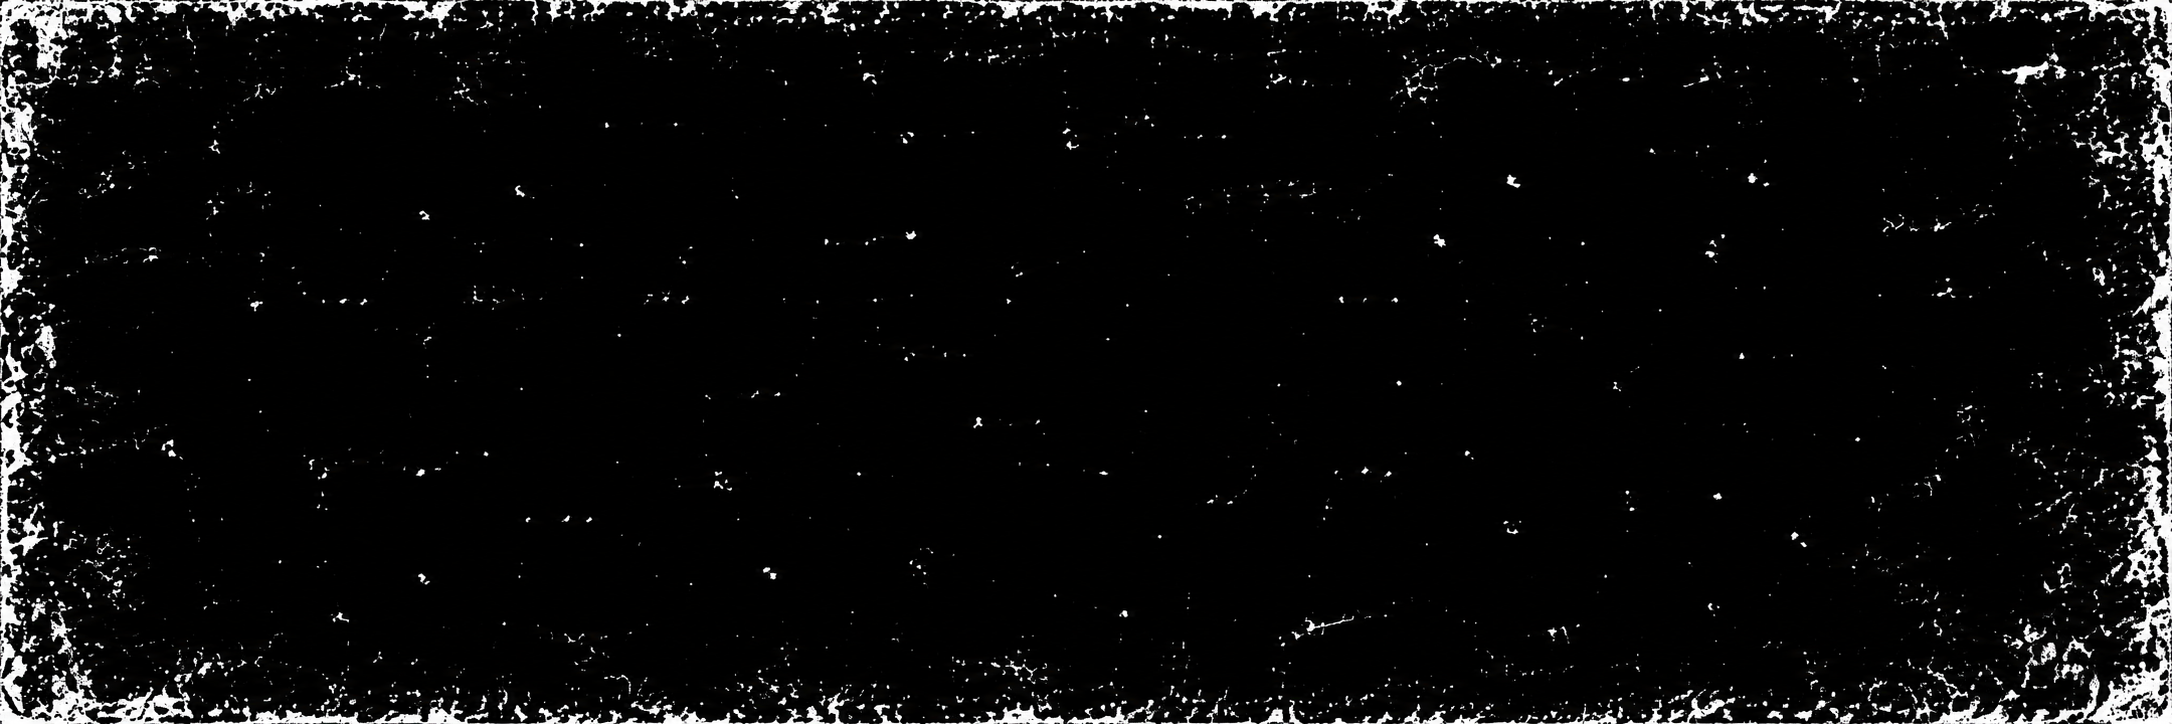
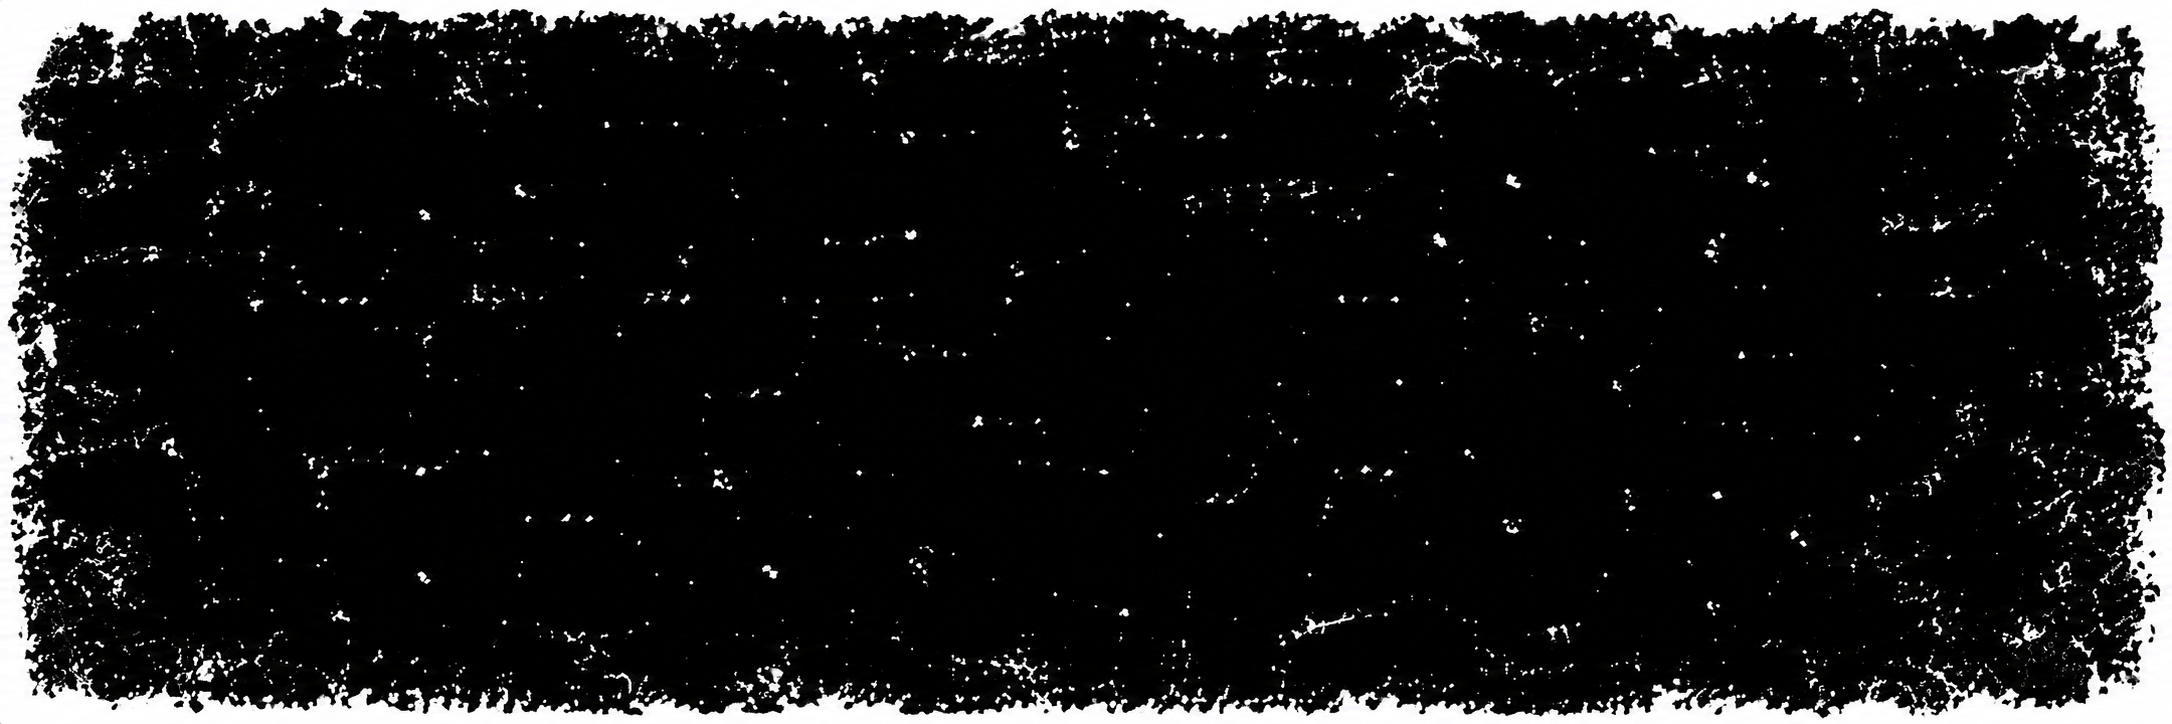
fix(landing): inset worn hero mask (DRA-264)

diff --git a/resources/js/components/WelcomePage.vue b/resources/js/components/WelcomePage.vue
@@ -91,16 +91,6 @@ defineProps<{ actionHref: string }>();
     content: '';
 }
 
-.welcome-hero-band::after {
-    position: absolute;
-    inset: 0;
-    background-image:
-        linear-gradient(to bottom, var(--welcome-paper), transparent 18px),
-        linear-gradient(to top, var(--welcome-paper), transparent 18px);
-    pointer-events: none;
-    content: '';
-}
-
 .welcome-hero-band > .welcome-shell {
     position: relative;
     z-index: 1;

diff --git a/specs/001-weekly-orders/history/2026-11-11T14-33-00.827Z-no-task-e69ab8ad-8bfb-48aa-a98c-f42ba2dcb1c9.md b/specs/001-weekly-orders/history/2026-11-11T14-33-00.827Z-no-task-e69ab8ad-8bfb-48aa-a98c-f42ba2dcb1c9.md
@@ -1,0 +1,3 @@
+## 2026-11-11T14:33:00.827Z · Change
+
+Replace the T83 hero's wear mask with the user's preferred inset-edge mask and remove the 18px `::after` gradient added in `2026-11-11T14-24-18.634Z-no-task-98996e87-bea2-4d32-975a-2153322bf8c5.md`. The new grayscale asset `resources/images/welcome/hero-wear-mask.png` retains central ink chips and organic worn edges but has no dark pixels on its outermost image rows or columns, so the blue ink ends inside the hero surface instead of being cut by its rectangular boundary. The page paper still shows through the mask via the existing `::before` layer. Basket, copy, colours, layout, routes and interactions remain unchanged. No R#/S# or demo-data change. Source: the user's rejection and proposed mask correction in the preceding Request entry.

diff --git a/specs/001-weekly-orders/history/2026-11-11T14-33-00.768Z-no-task-f92493fa-3c25-48a8-8a08-c2f73ec98fa6.md b/specs/001-weekly-orders/history/2026-11-11T14-33-00.768Z-no-task-f92493fa-3c25-48a8-8a08-c2f73ec98fa6.md
@@ -1,0 +1,3 @@
+## 2026-11-11T14:33:00.768Z · Request
+
+Aquest degradat no m'agrada. Crec que seria millor que la màscara no tingués la vora que provoca el problema.
